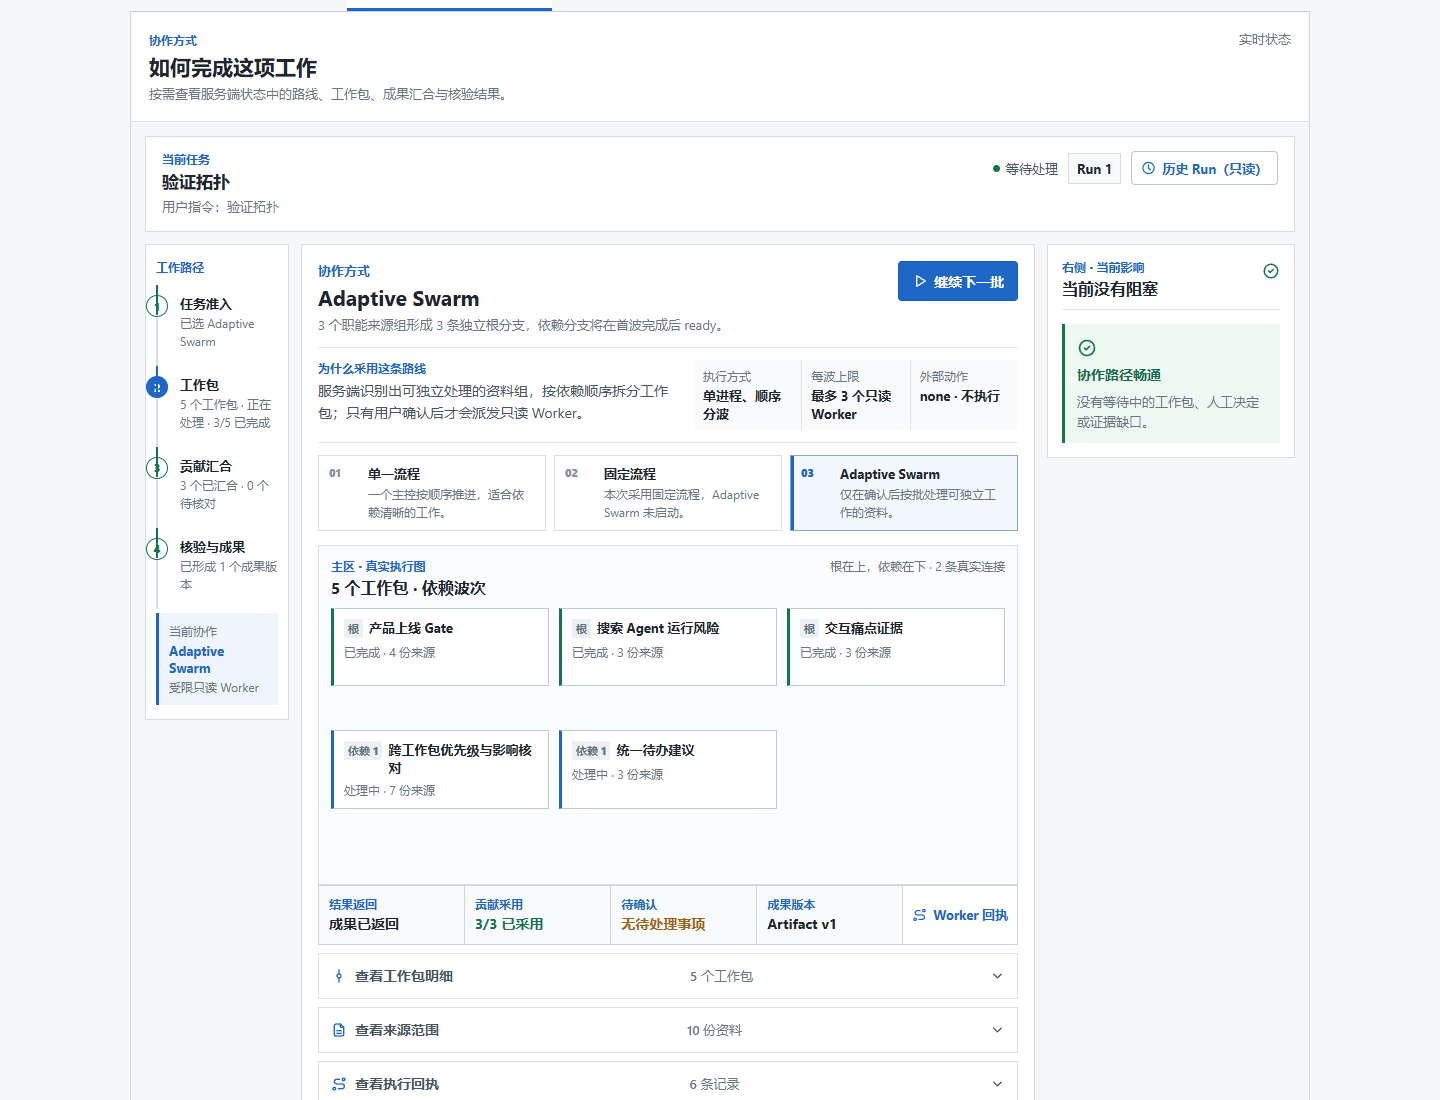
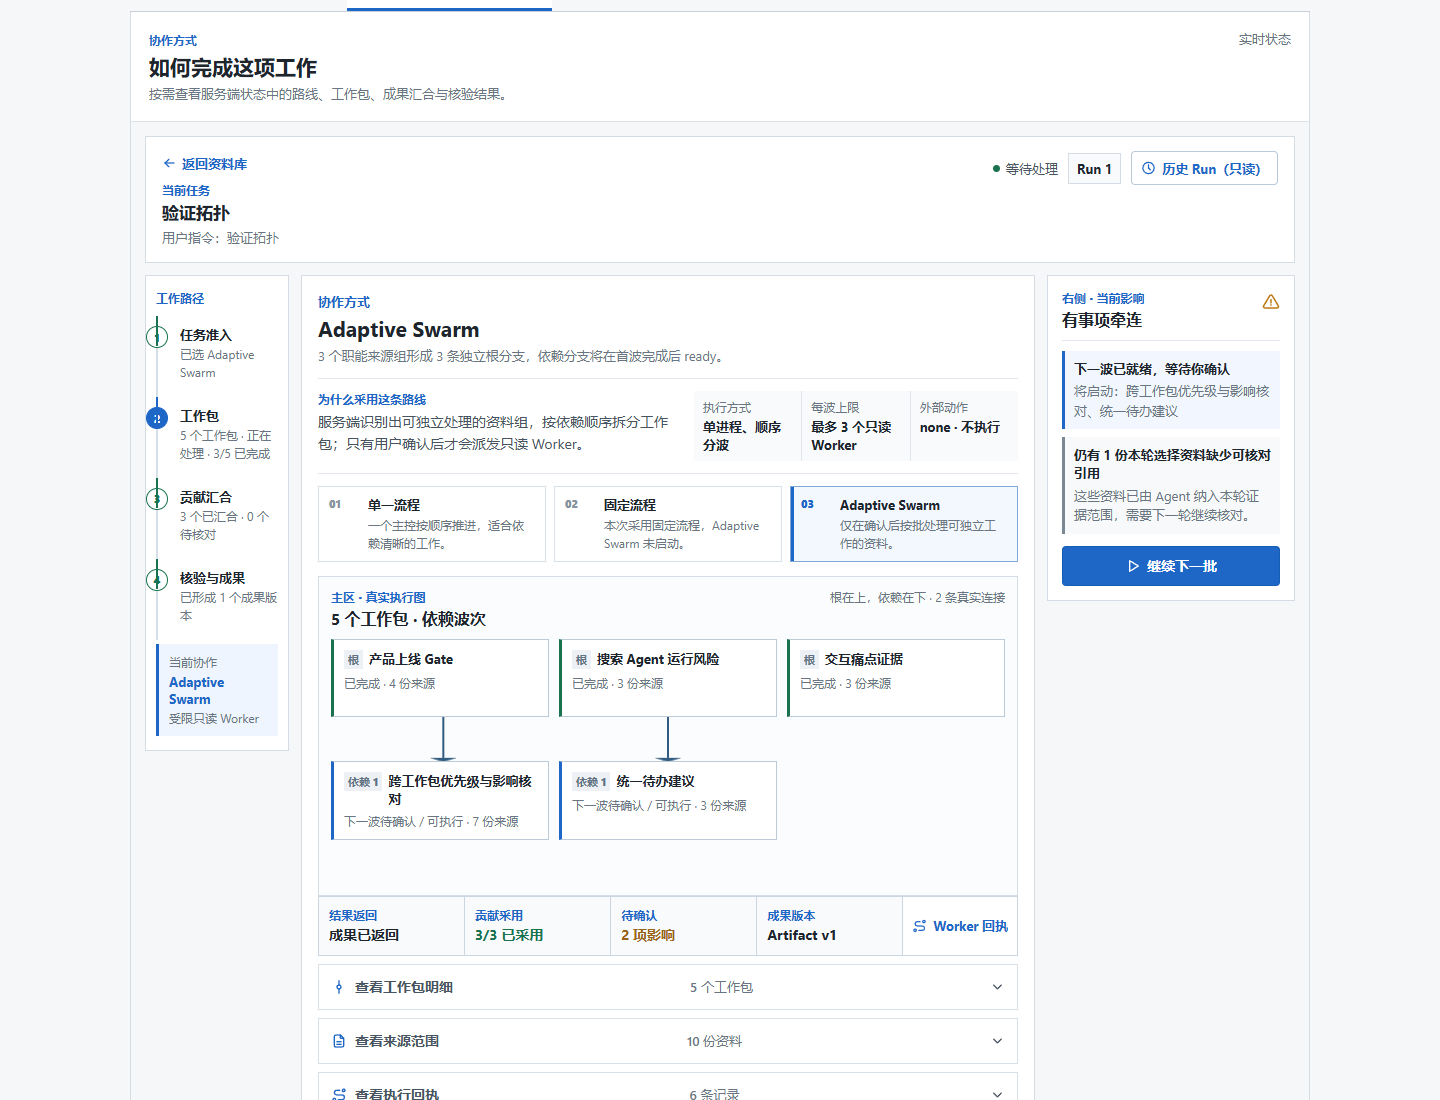
docs: record adaptive dependency workspace

Changed region(s): [[0.2188, 0.2164, 0.9062, 0.7727], [0.2188, 0.8036, 0.7188, 1.0], [0.0938, 0.1236, 0.1875, 0.68]]

diff --git a/docs/decisions/SOURCE_REGISTER.md b/docs/decisions/SOURCE_REGISTER.md
@@ -173,6 +173,6 @@
 | `DR-0056-DEMO1-DEMO2-SEPARATED-WORKSPACES-EVIDENCE-20260901` | 源码、固定 Fixture、浏览器截图、全量回归与 living docs Evidence | [`DR-0056-DEMO1-DEMO2-SEPARATED-WORKSPACES-EVIDENCE-20260901.md`](../evidence/DR-0056-DEMO1-DEMO2-SEPARATED-WORKSPACES-EVIDENCE-20260901.md)；原始实现 `f942b3a`、`da6cbbc`、`e9635bb`；本分支等价提交 `f1b2fac`、`031b4ea`、`e580b36` | 2026-09-01，status `Limited Verified`；定向浏览器 `4 passed`、全量 Playwright `73 passed`、全量 Python `418 passed, 23 skipped`，Ruff/lint/build/治理/变更链接检查通过 | 证明最近 Run 的 Task 会话分组、历史只读/current SSE、Demo 1 主 Loop、独立 Adaptive 工作台、真实公开 Snapshot 字段投影、Fixed Workflow 反例与桌面/390 px 工程门在被测范围成立 | Fixture 与截图不是 Provider、PostgreSQL 本轮复跑、分布式 Swarm、用户研究或业务收益证据；最近 20 个 Run 也不是无限 Task 历史 | Office Agent 项目组 | `DR-0056 / Limited Verified` |
 | `USER-FEEDBACK-20260901-AGENT-CAPABILITY-PAGE-AND-FUTURE-COCKPIT` | Stakeholder 对 Agent 能力页与 Demo 2 智能工作驾驶舱边界的纠正 | [`USER-FEEDBACK-20260901-agent-capability-page-and-future-cockpit.md`](../sources/USER-FEEDBACK-20260901-agent-capability-page-and-future-cockpit.md) | 2026-09-01，Asia/Shanghai | 支持把 Loop 与 Adaptive Swarm 作为 Agent 能力放在独立页面，并把 07-16 的任务队列/路线/返回驾驶舱保留为后续 Demo 2 独立页面 | 单一 Stakeholder 反馈不是用户研究、运行 Evidence 或驾驶舱实现；附件概念图不是当前系统截图 | Office Agent 项目组 | `DR-0057 / SCENARIO-044` |
 | `DR-0057-AGENT-CAPABILITY-PAGE-EVIDENCE-20260901` | 源码、固定 Fixture、桌面/390 px 截图与全量回归 Evidence | [`DR-0057-AGENT-CAPABILITY-PAGE-EVIDENCE-20260901.md`](../evidence/DR-0057-AGENT-CAPABILITY-PAGE-EVIDENCE-20260901.md)；Luna 原始实现 `1994817`、polish `a3d7f99`；本分支等价提交 `4776ea0`、`d7a1f80` | 2026-09-01，status `Limited Verified`；能力页定向 `4 passed`、截图 `1 passed`、全量 Playwright `77 passed`、全量 Python `418 passed, 23 skipped`，Ruff/lint/build/治理/diff check 通过 | 证明 `/agent-capabilities` 用同一 selected Run 同页投影 Loop 与 Adaptive，current/history 一起切换，安全来源、Fixed 反例、真实审查入口、hash 导航和无假驾驶舱入口在被测范围成立 | Fixture/截图不是 Provider、PostgreSQL 本轮复跑、分布式 Swarm、智能工作驾驶舱、目标用户研究或业务收益证据 | Office Agent 项目组 | `DR-0057 / Limited Verified` |
-| `USER-FEEDBACK-20260901-PROGRESSIVE-AGENT-CAPABILITY-PAGE` | Stakeholder 浏览器试用反馈、四张 GPT Image 2 概念参考、落地确认与第二轮视觉纠正 | [`USER-FEEDBACK-20260901-progressive-disclosure-agent-capability-page.md`](../sources/USER-FEEDBACK-20260901-progressive-disclosure-agent-capability-page.md) | 2026-09-01，Asia/Shanghai | 支持把能力页从 Loop/Swarm 同屏完整展开改为任务进展、执行记录、协作方式和原文核对四层渐进披露；第二轮进一步要求 Adaptive 协作页显式呈现阶段轨、真实 WorkUnit DAG、当前影响和成果条，而不是路线摘要换皮 | 单一 Stakeholder 反馈和生成概念图不是目标用户研究、实现 Evidence 或体验收益证明；图片中的任务、状态和定位不得作为运行事实 | Office Agent 项目组 | `DR-0058 / SCENARIO-045` |
+| `USER-FEEDBACK-20260901-PROGRESSIVE-AGENT-CAPABILITY-PAGE` | Stakeholder 浏览器试用反馈、四张 GPT Image 2 概念参考、落地确认与多轮视觉纠正 | [`USER-FEEDBACK-20260901-progressive-disclosure-agent-capability-page.md`](../sources/USER-FEEDBACK-20260901-progressive-disclosure-agent-capability-page.md) | 2026-09-01 至 2026-09-02，Asia/Shanghai | 支持把能力页从 Loop/Swarm 同屏完整展开改为任务进展、执行记录、协作方式和原文核对四层渐进披露；后续进一步要求 Adaptive 协作页显式呈现阶段轨、真实 WorkUnit DAG、当前影响和成果条，保证依赖方向可见且 ready 节点、右侧解释和动作一致，而不是路线摘要换皮 | 单一 Stakeholder 反馈和生成概念图不是目标用户研究、实现 Evidence 或体验收益证明；图片中的任务、状态和定位不得作为运行事实 | Office Agent 项目组 | `DR-0058 / SCENARIO-045` |
 | `PROGRESSIVE-DISCLOSURE-AND-ACCESSIBLE-TABS-20260901` | HCI 实践文章、W3C 官方交互模式与既有 HAI 文献复核 | [Nielsen Norman Group: Progressive Disclosure](https://www.nngroup.com/articles/progressive-disclosure/)；[W3C WAI-ARIA Tabs Pattern](https://www.w3.org/WAI/ARIA/apg/patterns/tabs/)；[W3C WAI-ARIA Disclosure Pattern](https://www.w3.org/WAI/ARIA/apg/patterns/disclosure/)；[Microsoft Guidelines for Human-AI Interaction](https://www.microsoft.com/en-us/research/publication/guidelines-for-human-ai-interaction/)；[Horvitz: Principles of Mixed-Initiative User Interfaces](https://www.microsoft.com/en-us/research/wp-content/uploads/2016/11/chi99horvitz.pdf) | 2026-09-01 访问 | 支持首层优先核心任务、低频细节按需展开、只在真实不确定性需要时请求用户，以及 tab/disclosure 的可访问关系与键盘语义；NN/g 对多层嵌套的警告支持每条用户路径最多一次展开或一次专注跳转 | 通用 HCI 指南、实践文章和标准不证明本项目目标用户理解、效率、信任或业务质量改善，也不决定具体中文文案 | Office Agent 项目组 | `DR-0058 research input` |
-| `DR-0058-AGENT-CAPABILITY-PROGRESSIVE-DISCLOSURE-EVIDENCE-20260901` | 源码、固定 Fixture、初版五张、视觉重构四张与 Adaptive 执行工作面两张运行截图、全量回归及 living docs Evidence | [`DR-0058-AGENT-CAPABILITY-PROGRESSIVE-DISCLOSURE-EVIDENCE-20260901.md`](../evidence/DR-0058-AGENT-CAPABILITY-PROGRESSIVE-DISCLOSURE-EVIDENCE-20260901.md)；初版 Luna `656edfd` 至 `4c1ce50` / `master` `2673fe4` 至 `f0a281c`；视觉重构 Luna `6901299` 至 `8b51be5` / `master` `58b4958` 至 `4916fcb`；执行工作面 Luna `db3f197/cbb2017/085c26e` / `master` `09e246b/fbf142c/fe0878f` | 2026-09-01，status `Limited Verified`；初版定向 `7 passed`、截图 `4 passed`、全量 Playwright `77 passed`、全量 Python `418 passed, 23 skipped`；视觉收尾定向 `4 passed`、全量 `77 passed`；执行工作面定向 `9 passed`、全量 `80 passed`、Web lint/build/diff-check 通过，后两次纯前端收敛未重跑 Python/Ruff/Provider/PostgreSQL | 证明同一 selected Run 的默认进展、完整执行记录、动态 WorkUnit DAG、局部影响、成果条、证据审查、历史只读、Fixed 反例、可访问 tab 和 390 px 在被测公共 Snapshot 范围成立 | Fixture/截图不是 Provider、PostgreSQL 本轮复跑、分布式 Swarm、智能工作驾驶舱、目标用户研究、业务正确性或体验收益证据 | Office Agent 项目组 | `DR-0058 / Limited Verified` |
+| `DR-0058-AGENT-CAPABILITY-PROGRESSIVE-DISCLOSURE-EVIDENCE-20260901` | 源码、固定 Fixture、初版五张、视觉重构四张与 Adaptive 执行工作面两张运行截图、全量回归及 living docs Evidence | [`DR-0058-AGENT-CAPABILITY-PROGRESSIVE-DISCLOSURE-EVIDENCE-20260901.md`](../evidence/DR-0058-AGENT-CAPABILITY-PROGRESSIVE-DISCLOSURE-EVIDENCE-20260901.md)；初版 Luna `656edfd` 至 `4c1ce50` / `master` `2673fe4` 至 `f0a281c`；视觉重构 Luna `6901299` 至 `8b51be5` / `master` `58b4958` 至 `4916fcb`；执行工作面 Luna `db3f197/cbb2017/085c26e/6a49dbd/14ade7e/04e11cd/50f4c4b` / `master` `09e246b/fbf142c/fe0878f/46f5521/ed8b82b/0e8767f/43e8171` | 2026-09-01 至 2026-09-02，status `Limited Verified`；初版定向 `7 passed`、截图 `4 passed`、全量 Playwright `77 passed`、全量 Python `418 passed, 23 skipped`；视觉收尾定向 `4 passed`、全量 `77 passed`；执行工作面定向 `9 passed`、全量 `80 passed`，最终状态定向 `3 passed`、截图相关 `8 passed`、Web lint/build/diff-check 通过，后续纯前端收敛未重跑 Python/Ruff/Provider/PostgreSQL | 证明同一 selected Run 的默认进展、完整执行记录、动态 WorkUnit DAG、可见方向边、ready 节点/影响/动作一致、局部影响、成果条、证据审查、历史只读、Fixed 反例、可访问 tab 和 390 px 在被测公共 Snapshot 范围成立 | Fixture/截图不是 Provider、PostgreSQL 本轮复跑、分布式 Swarm、智能工作驾驶舱、目标用户研究、业务正确性或体验收益证据 | Office Agent 项目组 | `DR-0058 / Limited Verified` |

diff --git a/docs/evidence/DR-0058-AGENT-CAPABILITY-PROGRESSIVE-DISCLOSURE-EVIDENCE-20260901.md b/docs/evidence/DR-0058-AGENT-CAPABILITY-PROGRESSIVE-DISCLOSURE-EVIDENCE-20260901.md
@@ -9,6 +9,8 @@
 - 视觉重构：Luna 分支 `6901299` 至 `8b51be5`；`master` 等价集成 `58b4958` 至 `4916fcb`
 - Adaptive 执行工作面：Luna 分支 `db3f197`、`cbb2017`、`085c26e`；`master` 等价集成
   `09e246b`、`fbf142c`、`fe0878f`
+- Adaptive 状态与方向连线收敛：Luna `6a49dbd`、`14ade7e`、`04e11cd`、`50f4c4b`；
+  `master` 等价集成 `46f5521`、`ed8b82b`、`0e8767f`、`43e8171`
 
 ## 1. 本轮证明了什么
 
@@ -31,7 +33,7 @@ Agent Control Loop 与 Adaptive Swarm 工作台：
 | --- | --- | --- | --- |
 | 四层与恢复定向 Playwright | `7 passed` | tab、disclosure、Fixed 反例、历史 Run、真实审查入口和新恢复文案在 Fixture 中成立 | Provider 输出、业务正确性或用户理解 |
 | 最终全量 Playwright | `77 passed` | Workspace、预览、现有 15 个场景、Loop/Swarm 与移动端回归未被本轮改坏 | 浏览器和网络的生产稳定性 |
-| Adaptive 执行工作面定向 Playwright | `9 passed` | 3 root + 2 dependent、2 条真实依赖、局部阻塞影响、Fixed 反例、历史只读和 390 px overflow 在 Fixture 中成立 | 真实 Provider 的拓扑选择、分布式调度或用户理解 |
+| Adaptive 执行工作面定向 Playwright | `9 passed`；最终状态定向 `3 passed`；截图相关 `8 passed` | 3 root + 2 dependent、2 条真实依赖、ready 节点/右侧说明/确认动作一致、局部阻塞影响、Fixed 反例、历史只读和 390 px overflow 在 Fixture 中成立 | 真实 Provider 的拓扑选择、分布式调度或用户理解 |
 | Adaptive 执行工作面全量 Playwright | `80 passed` | 新工作面未破坏既有 Workspace、预览、Loop、场景与移动端浏览器门 | 生产稳定性、任务质量或业务收益 |
 | 截图捕获定向门 | `4 passed` | 初版五张图片和视觉重构补充四张图片均来自固定公共 Fixture，不是概念图 | 真实 Provider 或真实用户运行 |
 | Web lint / TypeScript | 通过 | TypeScript 静态门通过 | 运行期业务语义 |
@@ -82,15 +84,18 @@ Agent Control Loop 与 Adaptive Swarm 工作台：
 
 Stakeholder 对视觉重构截图复核后指出：原协作页仍主要是路线卡、阶段摘要和 disclosure，
 没有把 WorkUnit 的空间依赖、当前影响与成果汇合做成接近概念参考的执行工作面。下列截图
-绑定 `master` 的 `fe0878f`，保留旧图而不覆盖历史 Evidence。
+最初绑定 `master` 的 `fe0878f`；最终图片更新到 `43e8171`，保留 3.1 旧图而不覆盖历史
+Evidence。更新后的父子折线、箭头和 ready 状态均来自同一受控 Snapshot。
 
 | 截图 | 尺寸 / bytes / SHA-256 | 被测事实 |
 | --- | --- | --- |
[4 lines of base64/hex data omitted]
 
-本次定向门为 `9 passed`，最终完整 `harness-workbench.spec.ts` 为 `80 passed`；Web lint、
-production build 与 `git diff --check` 通过。未重跑 Python、Ruff、Provider 或 PostgreSQL。
+本次定向门为 `9 passed`，最终完整 `harness-workbench.spec.ts` 为 `80 passed`；后续状态
+一致性定向 `3 passed`、截图相关 `8 passed`，可见连线微调定向 `3 passed`。Web lint、
+production build 与 `git diff --check` 通过；最后一次纯渲染微调沿用同日 `80 passed`
+基线，未重复全量。未重跑 Python、Ruff、Provider 或 PostgreSQL。
 截图仍是 controlled fixture，不能证明 Runtime 在任意真实任务中一定选择 Adaptive route，
 也不能证明用户理解、效率、信任或业务结果改善。
 

diff --git a/docs/evidence/AGENT-CAPABILITY-UI-WALKTHROUGH-EVIDENCE-20260901.md b/docs/evidence/AGENT-CAPABILITY-UI-WALKTHROUGH-EVIDENCE-20260901.md
@@ -2,7 +2,8 @@
 
 - 状态：`Limited Verified`
 - 初始被测提交：`bc52a73ddcee77ed0b146411f09777461fc31c83`
-- 修正与执行工作面：`09e246b`、`fbf142c`、`fe0878f`
+- 修正与执行工作面：`09e246b`、`fbf142c`、`fe0878f`、`46f5521`、`ed8b82b`、
+  `0e8767f`、`43e8171`
 - 说明报告：[`AGENT-CAPABILITY-UI-TEST-WALKTHROUGH-20260901`](../reports/AGENT-CAPABILITY-UI-TEST-WALKTHROUGH-20260901.md)
 - 截图目录：[`ui-test-walkthrough-20260901`](screenshots/ui-test-walkthrough-20260901/)
 
@@ -76,10 +77,14 @@ pnpm --dir apps/web exec playwright test e2e/harness-workbench.spec.ts --grep "A
 [1440 px](screenshots/dr-0058-adaptive-execution-workspace-1440.png) 和
 [390 px](screenshots/dr-0058-adaptive-execution-workspace-390.png)。新增结构由当前 Snapshot
 驱动：左侧阶段轨、`work_units[].depends_on` 动态 DAG、右侧局部影响、底部成果条，以及
-折叠的来源/回执。Fixed/Single 反例不画假 DAG。
+折叠的来源/回执。最终截图中，父子依赖以可见方向折线呈现；最新 Round 的
+`ready_branch_ids` 在 DAG 节点、工作包明细、右侧“下一波已就绪”说明和确认动作中使用
+同一语义。Fixed/Single 反例不画假 DAG。
 
-修正后的 capability 定向门 `9 passed`，完整 Playwright `80 passed`，Web lint/build 和
-`git diff --check` 通过。后续纯前端收敛未重跑 Python、Ruff、Provider 或 PostgreSQL。
+修正后的 capability 定向门 `9 passed`，完整 Playwright `80 passed`；最终状态定向门
+`3 passed`、截图相关门 `8 passed`，可见连线微调又通过定向 `3 passed`。Web lint/build
+和 `git diff --check` 通过。最后一次纯渲染微调沿用同日 `80 passed` 基线，未重复全量；
+后续纯前端收敛未重跑 Python、Ruff、Provider 或 PostgreSQL。
 
 ## 6. 边界
 

diff --git a/docs/reports/AGENT-CAPABILITY-UI-TEST-WALKTHROUGH-20260901.md b/docs/reports/AGENT-CAPABILITY-UI-TEST-WALKTHROUGH-20260901.md
@@ -149,8 +149,8 @@
 | --- | --- | --- |
 | 顶部任务与 Run | 这仍是当前任务的同一个 Snapshot，可以打开历史 Run 只读回看 | `instruction/contract.goal/run_sequence/status` 与 Task pointer |
 | 左侧阶段轨 | 协作不是 Worker 聊天墙，而是准入、工作包、贡献汇合、成果四段状态 | `topology_admission/work_units/contributions/artifact_versions` |
-| 中央依赖图 | 三个根工作包先完成，两个 dependent 只有依赖满足后进入下一波 | `work_units[].depends_on` 与 Branch/WorkUnit state；节点和边不硬编码 |
-| 右侧当前影响 | 只呈现 waiting/blocked、待采用贡献、人工决定或证据缺口对下游的真实影响 | waiting/blocked WorkUnit、Contribution、DecisionRequest、Evidence Gap |
+| 中央依赖图 | 三个根工作包先完成，父到子的方向折线说明两个 dependent 为什么只能进入下一波；ready 节点明确写“下一波待确认 / 可执行” | `work_units[].depends_on`、最新轮 `ready_branch_ids` 与 Branch/WorkUnit state；节点和边不硬编码 |
+| 右侧当前影响 | 下一波已就绪时，说明会启动哪些工作包，并把“继续下一批”放在同一区域；其他时候只呈现 waiting/blocked、待采用贡献、人工决定或证据缺口 | `ready_branch_ids`、waiting/blocked WorkUnit、Contribution、DecisionRequest、Evidence Gap |
 | 底部协作结果 | Worker 返回、服务端采用、待确认和逻辑成果版本是四件不同的事 | `worker_runs/contributions/artifact_versions/last_commit` |
 | 三个折叠入口 | 来源和回执仍可审计，但不再挤占主视图 | 批准来源、called/output_used/elapsed 与 Contribution Gate |
 

diff --git a/docs/scenarios/SCENARIO-045-progressive-agent-capability-review.md b/docs/scenarios/SCENARIO-045-progressive-agent-capability-review.md
@@ -37,9 +37,10 @@
 3. 用户点击“查看完整执行记录”，只展开当前 Round 与等待 Branch；其他 Branch 显示成果
    已保留，服务端事件和模型回执仍收起。
 4. 用户返回并切换“协作方式”。页面显示服务端实际 route。Adaptive 时在左侧看准入到
-   成果的阶段轨，在中央看三根两依赖或当前真实 WorkUnit DAG，在右侧看等待/阻塞对下游
-   的当前影响，在底部看返回、采用、待确认和 Artifact 版本；非 Adaptive 时只显示准入
-   原因，不画假 DAG。
+   成果的阶段轨，在中央看三根两依赖或当前真实 WorkUnit DAG；父子方向线说明先后关系，
+   `ready_branch_ids` 对应节点显示“下一波待确认 / 可执行”。右侧把下一波说明与唯一主要
+   确认动作放在一起，并显示其他等待/阻塞对下游的当前影响；底部显示返回、采用、待确认
+   和 Artifact 版本。非 Adaptive 时只显示准入原因，不画假 DAG。
 5. 用户点击待确认项，进入专注核对页。页面解释同一 quote 有多个候选、影响哪个工作包、
    哪些成果不变，并并列显示安全原文。
 6. 用户选择候选并确认。服务端校验版本、来源 revision 与 candidate membership，只恢复

diff --git a/docs/WORKSPACE_AND_STREAMING.md b/docs/WORKSPACE_AND_STREAMING.md
@@ -148,9 +148,13 @@ switch to a peer collaboration-method tab, or open one focused evidence decision
 The collaboration tab shows the actual route. For an Adaptive Snapshot it places
 admission, work packages, contribution convergence and verification/artifact on a
 left stage rail; lays out a dynamic DAG from public `work_units[].depends_on` in the
-main area; derives the right current-impact panel from waiting/blocked units,
+main area with visible parent-to-dependent arrows; projects the latest Round's
+`next_step.ready_branch_ids` as a confirmation-ready wave; derives the right
+current-impact panel from waiting/blocked units,
 waiting contributions, open decisions and Evidence gaps; and summarizes adoption
-and Artifact versions in a bottom result bar. Work-package details, approved sources
+and Artifact versions in a bottom result bar. When that ready wave needs confirmation,
+the matching explanation and primary action stay together in the impact panel.
+Work-package details, approved sources
 and called/adopted/elapsed receipts stay collapsed until requested. Single
 Controller, Fixed Workflow and Adaptive Swarm form the explanatory route frame, but
 only the service-owned mode is highlighted; non-adaptive Runs never render a

diff --git a/docs/PRESENTATION_BRIEF.md b/docs/PRESENTATION_BRIEF.md
@@ -56,7 +56,8 @@ Workspace 是办公工作面；新的 `/agent-capabilities` 把 Agent Control Lo
 把能力页或旧 dialog 说成驾驶舱已经完成。这个分层只改变前台投影；历史 Run 只读且不接
 SSE，当前 Worker 仍是单进程受限只读实现。Adaptive 正例的协作页现在进一步用左侧阶段
 轨、中央真实 WorkUnit DAG、右侧当前影响和底部成果条解释“为什么拆、谁依赖谁、哪里
-停、什么已经保留”；Fixed/Single 不画假 DAG。
+停、什么已经保留”；父子关系用方向连线表达，当前轮 `ready_branch_ids` 统一显示为“下一
+波待确认 / 可执行”，主要确认动作放在右侧当前影响区；Fixed/Single 不画假 DAG。
 Task/WorkUnit 的隔离 PostgreSQL 17.11 单主机顺序门已经通过，但 Provider 同场、多实例、
 远端 Worker 与用户研究仍未完成，不能写成生产级 Task 服务或通用/分布式 Worker。
 十五条场景的实际效果、失败修复轨迹、真实模型运行和外部边界见

diff --git a/docs/testing/AGENT-CAPABILITY-PROGRESSIVE-DISCLOSURE-GATES-20260901.md b/docs/testing/AGENT-CAPABILITY-PROGRESSIVE-DISCLOSURE-GATES-20260901.md
@@ -105,5 +105,6 @@ git diff --check
   lint/build/diff-check 通过；新增四张受控 Fixture 截图。纯前端收尾没有重跑
   Python、Ruff、Provider 或 PostgreSQL，初版基线不得冒充本提交的新验证。
 - Adaptive 执行工作面：定向 `9 passed`、最终全量 Playwright `80 passed`、Web
-  lint/build/diff-check 通过；新增 1440 与 390 px 受控 Fixture 截图。未重跑 Python、
-  Ruff、Provider 或 PostgreSQL。
+  lint/build/diff-check 通过；最终状态一致性定向 `3 passed`、截图相关 `8 passed`，可见
+  方向连线微调定向 `3 passed`，最后一次渲染微调沿用同日 `80 passed` 基线而未重复全量；
+  新增 1440 与 390 px 受控 Fixture 截图。未重跑 Python、Ruff、Provider 或 PostgreSQL。

diff --git a/README.md b/README.md
@@ -183,7 +183,9 @@ summary into a Snapshot-driven execution workspace: a left stage rail, a dynamic
 `work_units/depends_on` DAG, a derived current-impact panel and a compact result bar
 share one screen, while sources and receipts remain disclosures. Fixed and single
 routes still render no synthetic DAG or Worker activity. This closer visual match
-to the approved concept is verified only with controlled fixtures; it is not a
+uses visible parent-to-dependent arrows, projects the current Round's
+`ready_branch_ids` as the next wave awaiting confirmation, and keeps that action in
+the current-impact panel. It is verified only with controlled fixtures; it is not a
 distributed scheduler, a live user study or the future Demo 2 cockpit.
 
 ## Public data and preview boundary
